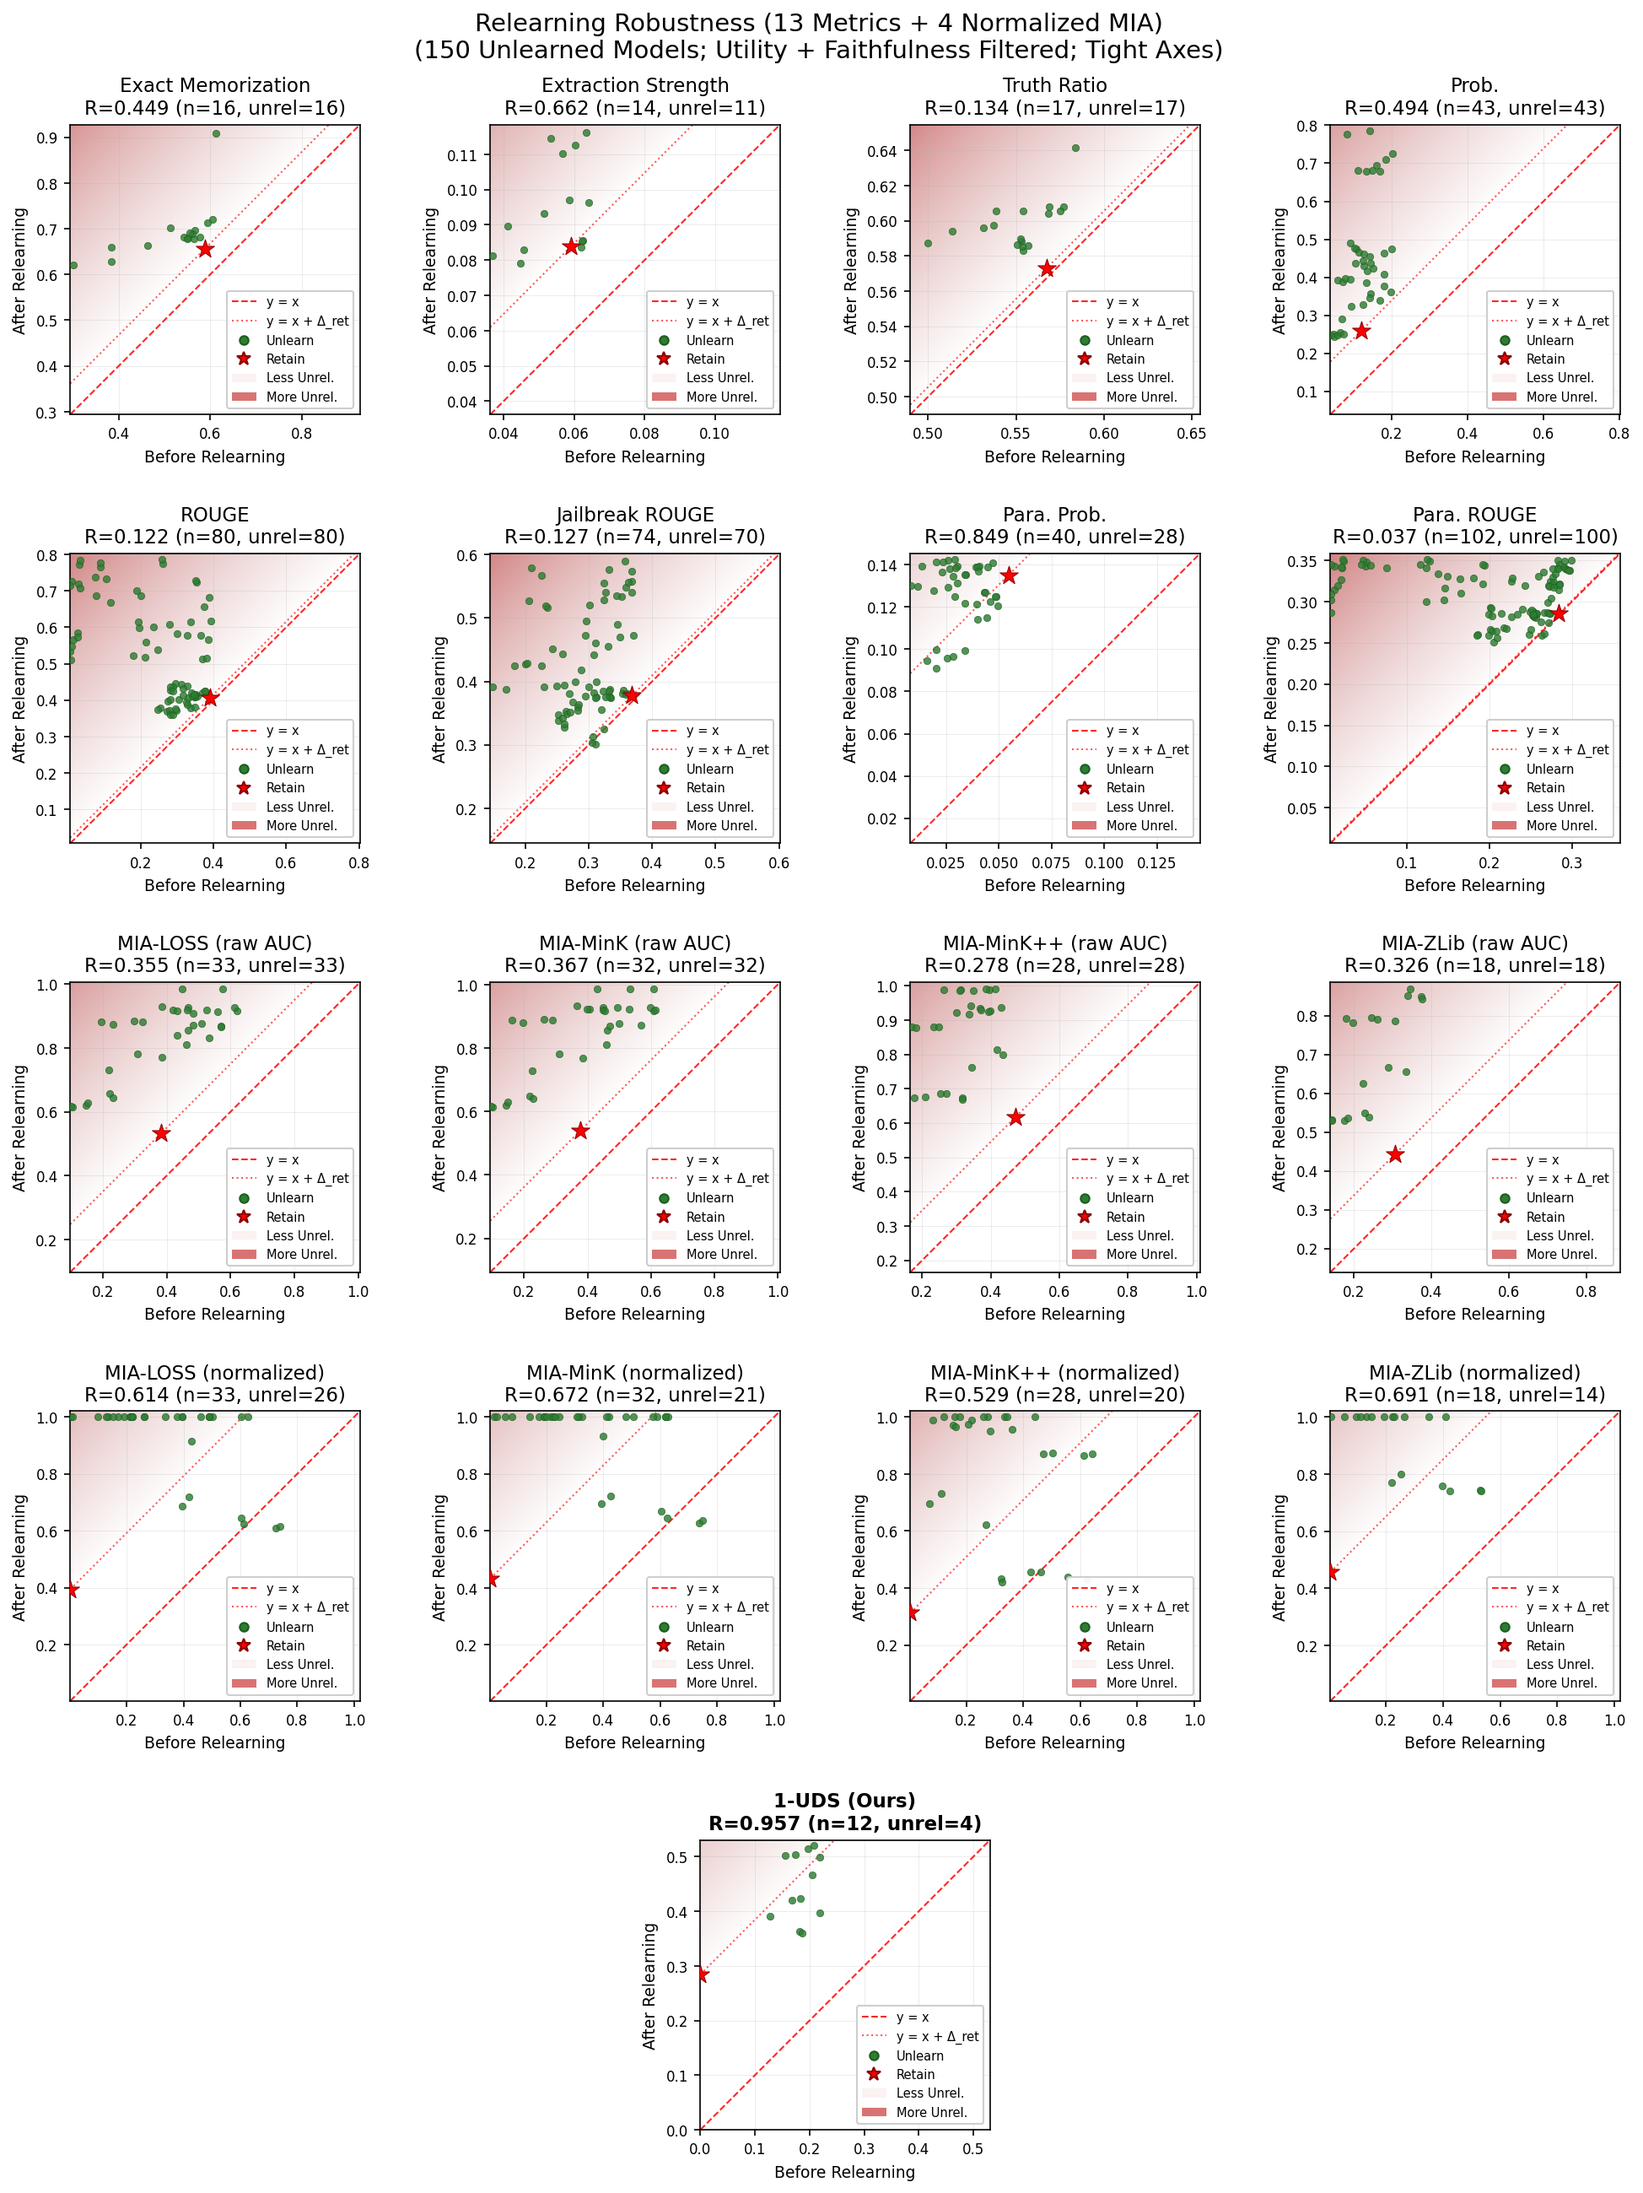
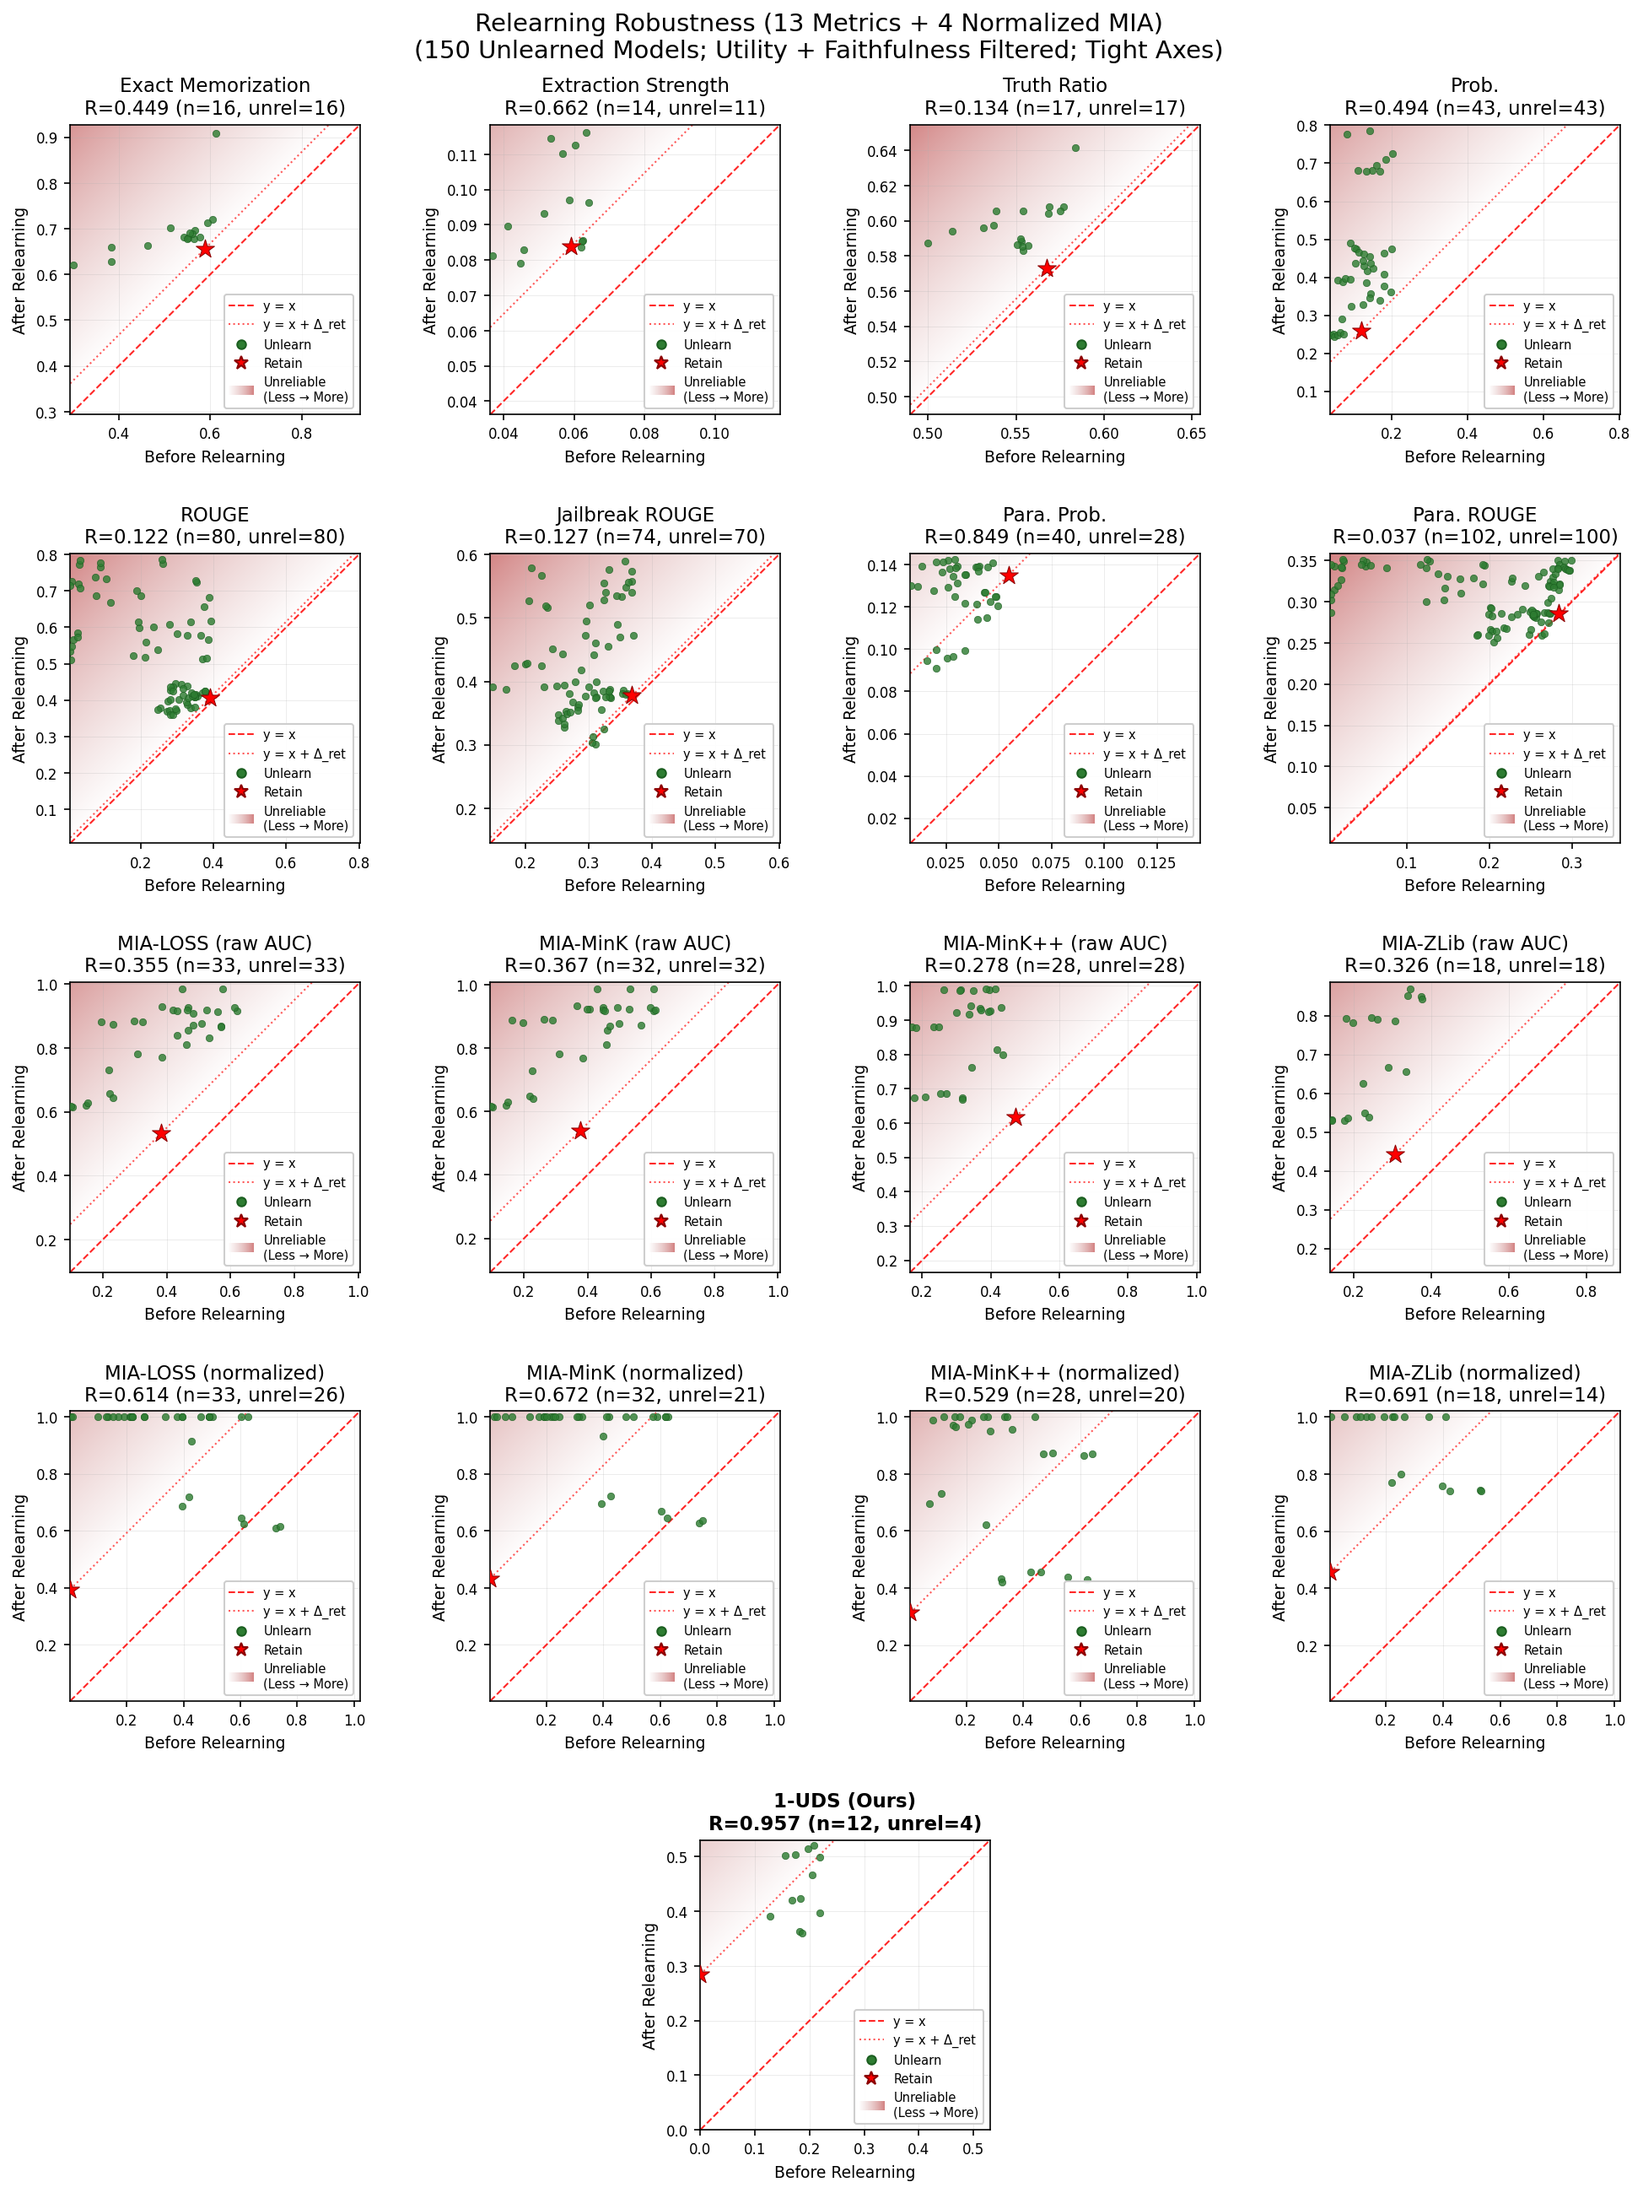
Replace flat legend patches with gradient image, revert to linear RGB blending

diff --git a/runs/meta_eval/robustness/relearn/plots/plot_relearn_robustness.py b/runs/meta_eval/robustness/relearn/plots/plot_relearn_robustness.py
@@ -16,6 +16,9 @@ import matplotlib.pyplot as plt
 from matplotlib.lines import Line2D
 from matplotlib.patches import Patch
 from matplotlib.colors import to_rgba
+from matplotlib.image import BboxImage
+from matplotlib.transforms import Bbox, TransformedBbox
+from matplotlib.legend_handler import HandlerBase
 import matplotlib.gridspec as gridspec
 from pathlib import Path
 
@@ -114,6 +117,24 @@ def _draw_unreliable_gradient(ax, lo, hi, shift=0.0):
     img[..., 3] = np.where(mask, 1.0, 0.0)
     ax.imshow(img, extent=[lo, hi, lo, hi], origin='lower',
               aspect='auto', zorder=0, interpolation='bilinear')
+
+
+class _GradientHandler(HandlerBase):
+    """Legend handler: draws a white → UNREL_COLOR gradient rectangle."""
+    def create_artists(self, legend, orig_handle, xdescent, ydescent,
+                       width, height, fontsize, trans):
+        N = 256
+        base_lin = _srgb_to_linear(np.array(to_rgba(UNREL_COLOR)[:3]))
+        t = np.linspace(0.02, GRADIENT_MAX_BLEND, N)
+        arr = np.ones((1, N, 4))
+        for c in range(3):
+            blended = 1.0 * (1 - t) + base_lin[c] * t
+            arr[0, :, c] = _linear_to_srgb(np.clip(blended, 0, 1))
+        bb = Bbox.from_bounds(xdescent, ydescent, width, height)
+        tbb = TransformedBbox(bb, trans)
+        im = BboxImage(tbb)
+        im.set_data(arr)
+        return [im]
 
 
 def parse_args():
@@ -360,6 +381,7 @@ def main():
         ax.tick_params(labelsize=8)
         ax.grid(True, linestyle='-', linewidth=0.45, alpha=0.25)
 
+        grad_patch = Patch(label='Unreliable\n(Less → More)')
         local_handles = [
             Line2D([0], [0], color='r', linestyle='--', linewidth=1.0, alpha=0.85, label='y = x'),
             Line2D([0], [0], color='r', linestyle=':', linewidth=1.0, alpha=0.65, label='y = x + Δ_ret'),
@@ -367,10 +389,10 @@ def main():
                    markeredgecolor='#1B5E20', markersize=5, label='Unlearn'),
             Line2D([0], [0], marker='*', color='w', markerfacecolor='red',
                    markeredgecolor='darkred', markersize=8, label='Retain'),
-            Patch(facecolor=UNREL_COLOR, edgecolor='none', alpha=0.06, label='Less Unrel.'),
-            Patch(facecolor=UNREL_COLOR, edgecolor='none', alpha=0.65, label='More Unrel.'),
+            grad_patch,
         ]
-        ax.legend(handles=local_handles, loc='lower right', fontsize=7, framealpha=0.95)
+        ax.legend(handles=local_handles, handler_map={grad_patch: _GradientHandler()},
+                  loc='lower right', fontsize=7, framealpha=0.95)
 
     fig.suptitle(f'Relearning Robustness (13 Metrics + 4 Normalized MIA)\n(150 Unlearned Models; {filter_label})',
                  fontsize=14, fontweight='normal', y=0.97)

diff --git a/runs/meta_eval/robustness/quant/plots/plot_quant_robustness.py b/runs/meta_eval/robustness/quant/plots/plot_quant_robustness.py
@@ -12,6 +12,9 @@ import matplotlib.pyplot as plt
 from matplotlib.lines import Line2D
 from matplotlib.patches import Patch
 from matplotlib.colors import to_rgba
+from matplotlib.image import BboxImage
+from matplotlib.transforms import Bbox, TransformedBbox
+from matplotlib.legend_handler import HandlerBase
 import matplotlib.gridspec as gridspec
 from pathlib import Path
 
@@ -92,6 +95,24 @@ def _draw_unreliable_gradient(ax, lo, hi, shift=0.0):
     img[..., 3] = np.where(mask, 1.0, 0.0)
     ax.imshow(img, extent=[lo, hi, lo, hi], origin='lower',
               aspect='auto', zorder=0, interpolation='bilinear')
+
+
+class _GradientHandler(HandlerBase):
+    """Legend handler: draws a white → UNREL_COLOR gradient rectangle."""
+    def create_artists(self, legend, orig_handle, xdescent, ydescent,
+                       width, height, fontsize, trans):
+        N = 256
+        base_lin = _srgb_to_linear(np.array(to_rgba(UNREL_COLOR)[:3]))
+        t = np.linspace(0.02, GRADIENT_MAX_BLEND, N)
+        arr = np.ones((1, N, 4))
+        for c in range(3):
+            blended = 1.0 * (1 - t) + base_lin[c] * t
+            arr[0, :, c] = _linear_to_srgb(np.clip(blended, 0, 1))
+        bb = Bbox.from_bounds(xdescent, ydescent, width, height)
+        tbb = TransformedBbox(bb, trans)
+        im = BboxImage(tbb)
+        im.set_data(arr)
+        return [im]
 
 
 def parse_args():
@@ -316,14 +337,15 @@ def main():
         ax.tick_params(labelsize=8)
         ax.grid(True, linestyle='-', linewidth=0.45, alpha=0.25)
 
+        grad_patch = Patch(label='Unreliable\n(Less → More)')
         local_handles = [
             Line2D([0], [0], color='r', linestyle='--', linewidth=1.0, alpha=0.85, label='y = x'),
             Line2D([0], [0], marker='o', color='w', markerfacecolor='#2E7D32',
                    markeredgecolor='#1B5E20', markersize=5, label='Unlearn'),
-            Patch(facecolor=UNREL_COLOR, edgecolor='none', alpha=0.06, label='Less Unrel.'),
-            Patch(facecolor=UNREL_COLOR, edgecolor='none', alpha=0.65, label='More Unrel.'),
+            grad_patch,
         ]
-        ax.legend(handles=local_handles, loc='lower right', fontsize=7, framealpha=0.95)
+        ax.legend(handles=local_handles, handler_map={grad_patch: _GradientHandler()},
+                  loc='lower right', fontsize=7, framealpha=0.95)
 
     fig.suptitle(f'Quantization Robustness (13 Metrics + 4 Normalized MIA)\n(150 Unlearned Models; {filter_label})',
                  fontsize=14, fontweight='normal', y=0.97)
